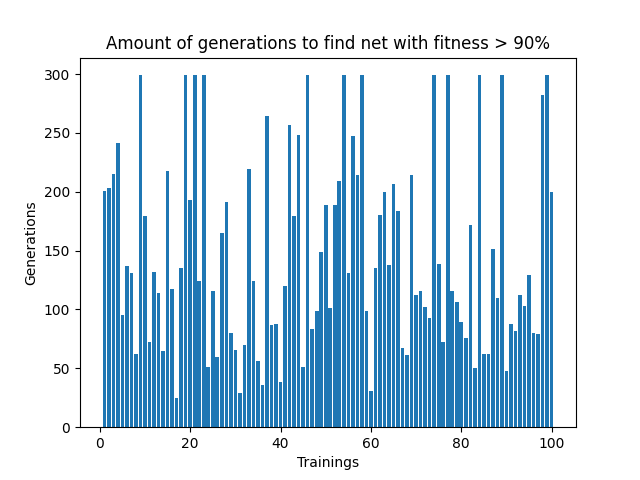
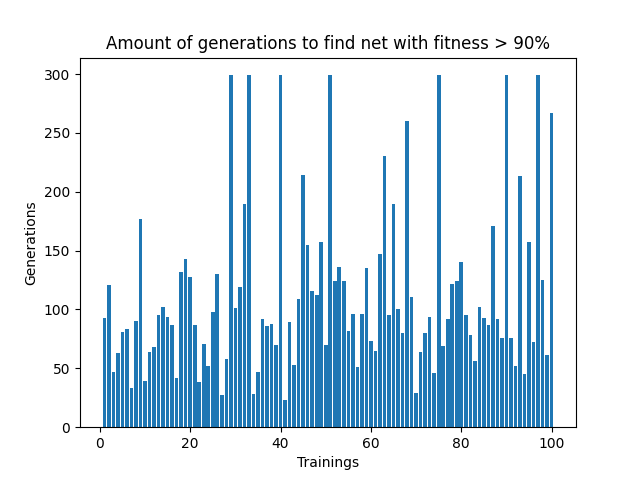
Updated read.me

Changed region(s): [[0.1562, 0.1562, 0.875, 0.8438], [0.25, 0.7812, 0.2812, 0.8125]]

diff --git a/xor_efficiency.py b/xor_efficiency.py
@@ -27,14 +27,14 @@ def main():
 
 
         population_handler = PopulationHandler(
-            initial_net_amount=150,
+            initial_net_amount=250,
             input_neurons=2,
             output_neurons=1,
-            max_generations=300,
+            max_generations=100,
             fitness_function=fitness_function_xor,
             run_stat=run_stat,
             fitness_function_multiple_nets=False, # if True, then fitness function calculcates fitness for all networks, if False then only for one network
-            target_fitness=0.9
+            target_fitness=1.0
         )
         population_handler.initial_population()
         best_net = population_handler.start_evolution_process()
@@ -55,7 +55,7 @@ def calculate_avg_fitness_after_n_generations():
     Calculates the average fitness of the best networks in each generation
     """
     sum_vector = None
-    sample_size = 20
+    sample_size = 100
 
     for _ in range(sample_size):
         main()
@@ -105,4 +105,4 @@ def calc_generation_amount_for_high_fitness():
 
     print("Avergage generation amount to reach fitness level: ", sum(data) / sample_size)
 
-calc_generation_amount_for_high_fitness()
+calculate_avg_fitness_after_n_generations()

diff --git a/README.md b/README.md
@@ -20,14 +20,15 @@ To try the algorithm you can choose one of two predefined problems to solve. Fin
 
 
 #### Performance Evaluation
-To measure the performance of my NEAT-implementation I did two differenz measurements.
+To measure the performance of my NEAT-implementation I did two different measurements for populations of 250 networks.
 
 First, I analyzed the average fitness levels of the fittest networks in each generation for 100 evolution processes:
 ![Average fitness best network](assets/average_fitness.png)
 
 
-Additionally, I analazed how many generations it takes for the evolution to reach a network with a fitness larger than 90% for 100 evolution processes:
+Additionally, I analazed for 100 evolution processes how many generations it takes to reach a network with a fitness larger than 90%:
 ![Amount of generations for high fitness](assets/generations_amount_high_fitness.png)
+As expected with evulotion-algorithms the results can be very different, due to the random nature of the initial weights and biases.
 
 
 
@@ -124,12 +125,18 @@ To tweak the evolution process you can adjust the parameter settings in the conf
     "new_connection_prob": 30
 }
 ```
-The parameters `c1`, `c2` and `c3` influence the calculation of the compatibilty distance between a new network that was created by mutation or crossover with another network that is the representative of a species. The compatibilty distance evaluates how similar the tologogy of the two networks are based on the amount of adjoint genes, excess genes an the average weight difference of matching genes. `c1` controls how much influence the number of ajdoint genes has, `c2` controls the influence of the number of excess genes and `c3` controls the influence of the average weight difference of matching genes. The `species_similarity_threshold` defines the treshold for networks to be in the same species. If the compatibilty distance of a new network and the representative of a species is above the treshold, the network belongs to the according species. If the compatibilty distance is lower than the threshold the network is compared to the representative of the next species. If the network does not belong to any existing species, it is added to a new species.
-
-`species_survival_rate` defines the percentage of best networks in each generation that are not deleted. These remaining networks are used afterwards to create new networks with mutations and crossovers. `elit_nets_amount` is the amount of top networks that are copied to the next generation without applying mutations. `stagnation_treshold` is the number of generations a species can survive without fitness improvements.
-
-The parameters `mutation_offspring_rate` and `crossover_offspring_rate` define how many new networks are created by mutations (of neurons weight, biases) and by crossovers of networks. Both parameters need to add up to 100 %.
-
-`weight_perturbation_prob` defines the probability of a network being mutated by perturbating a random connection weight within the network. `weight_mutation_random_value_prob` is the probabilty of a mutation by setting a new random value for one connection weight. `bias_weight_mutation_prob` defines the probability of mutating a network by perturbating the bias in one of the network's neurons.
-
-`gene_disabled_rate` defines the probabilty that a disabled connection stays disabled in a child network that is created during a crossover. Connections are disabled when a hidden neuron splits up an existing connection within a network. `new_neuron_prob` is the probability that a new hidden neuron is added somewhere in the network and `new_connection_prob` is the probability that a new connection between existing neurons is created in the network.
+| Parameter                        | Description |
+|----------------------------------|-------------|
+| **c1, c2, c3**                   | Influence the calculation of the compatibility distance between a new network (created by mutation or crossover) and the representative of a species. <br>• **c1** → influence of the number of matching genes. <br>• **c2** → influence of the number of excess genes. <br>• **c3** → influence of the average weight difference of matching genes. |
+| **species_similarity_threshold**  | Threshold for networks to belong to the same species. If the compatibility distance is above this threshold, the network forms a new species. |
+| **species_survival_rate**         | Percentage of top networks in each generation that are not deleted. Remaining networks are used for mutation and crossover. |
+| **elit_nets_amount**              | Number of top networks copied to the next generation without mutation. |
+| **stagnation_threshold**           | Number of generations a species can survive without fitness improvements. |
+| **mutation_offspring_rate**       | Percentage of new networks created via mutation (weights, biases). |
+| **crossover_offspring_rate**      | Percentage of new networks created via crossover. Must add up to 100% with `mutation_offspring_rate`. |
+| **weight_perturbation_prob**      | Probability of perturbing a random connection weight within a network. |
+| **weight_mutation_random_value_prob** | Probability of mutating a connection weight by setting a new random value. |
+| **bias_weight_mutation_prob**     | Probability of perturbing the bias of a neuron in a network. |
+| **gene_disabled_rate**            | Probability that a disabled connection stays disabled in a child network after crossover. Disabled connections occur when a hidden neuron splits an existing connection. |
+| **new_neuron_prob**               | Probability of adding a new hidden neuron to the network. |
+| **new_connection_prob**           | Probability of adding a new connection between existing neurons. |
